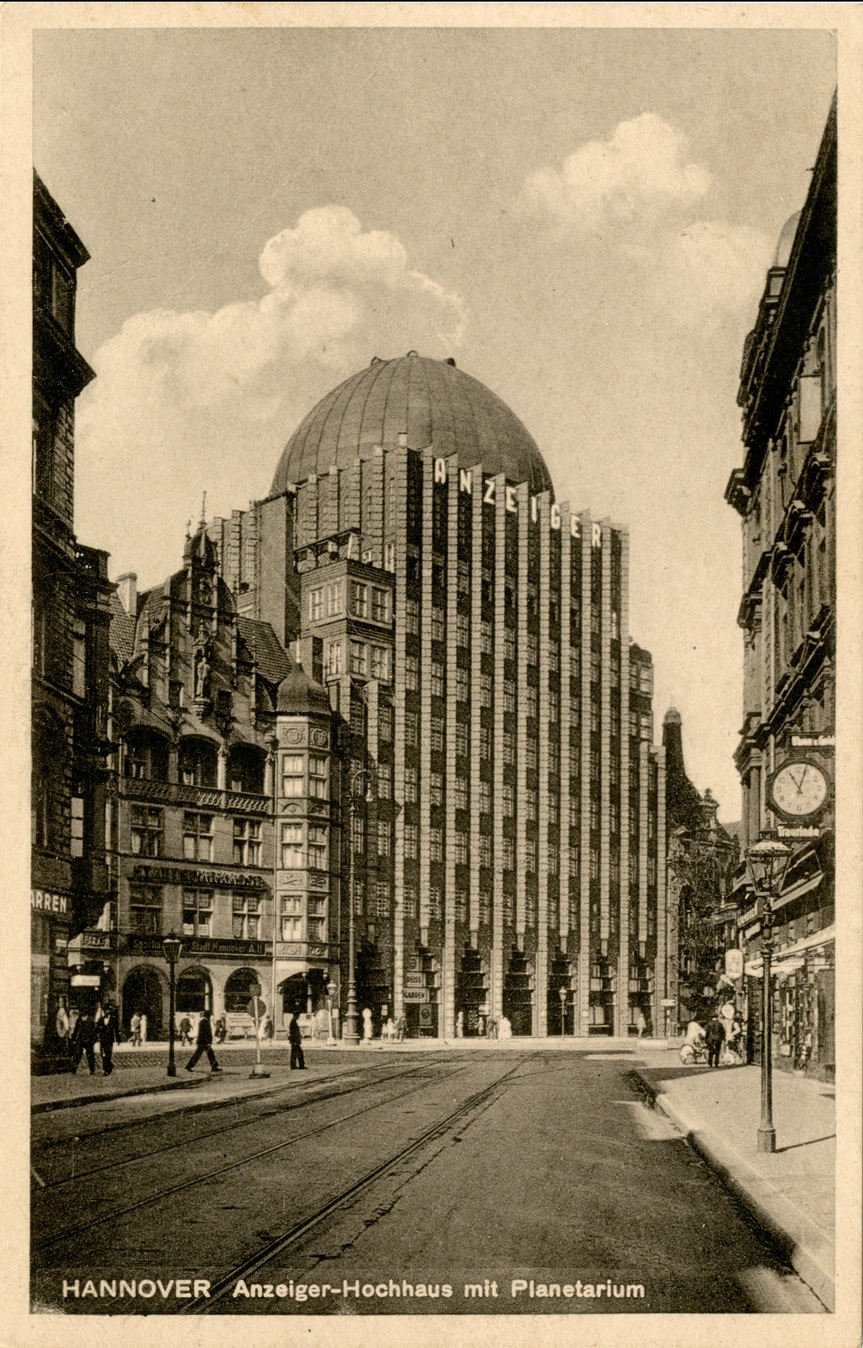
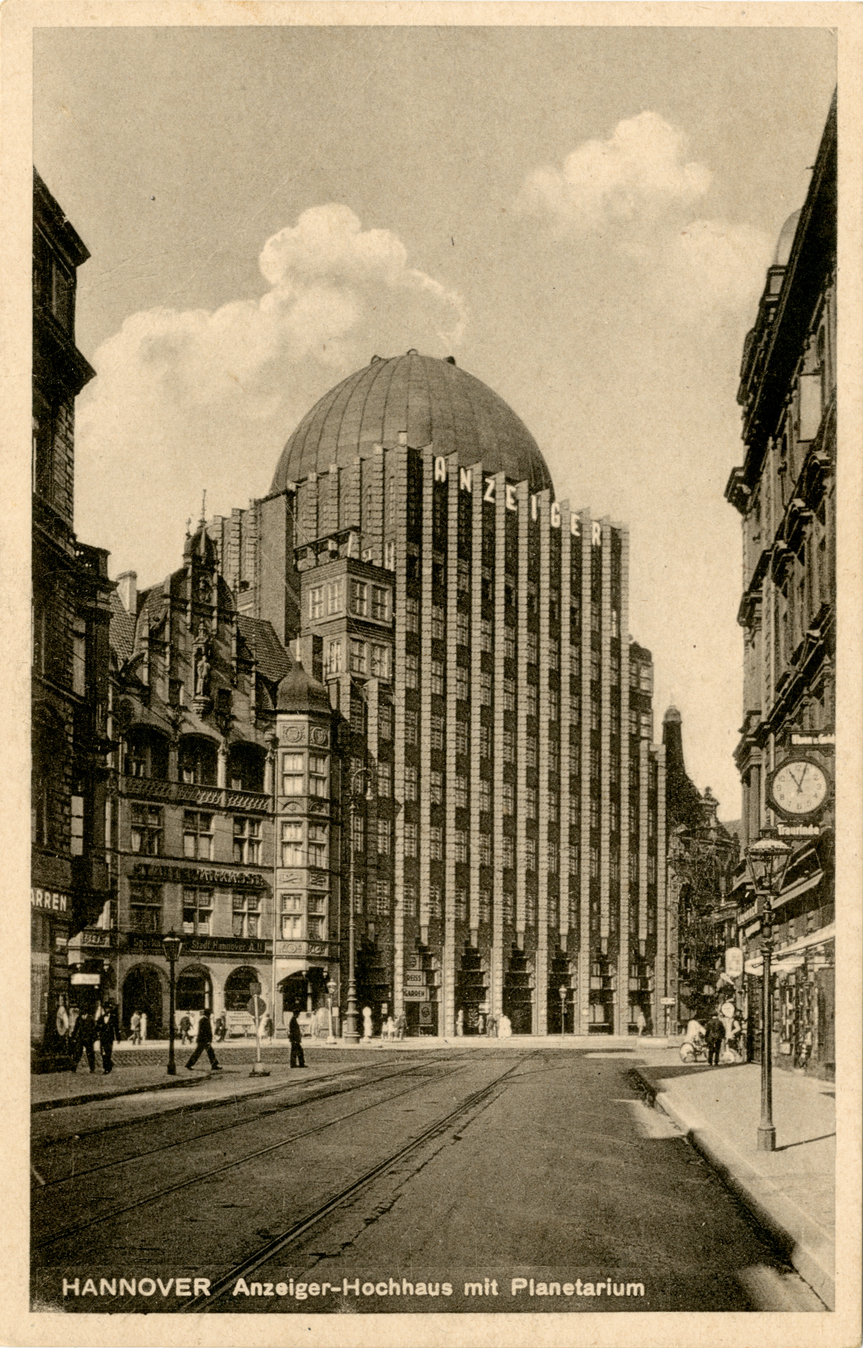
Fixed images

Changed region(s): [[0.0, 0.093, 0.9925, 1.0], [0.2171, 0.0, 0.9615, 0.031], [0.9925, 0.9922, 1.0, 1.0]]

diff --git a/README.md b/README.md
@@ -1,6 +1,30 @@
 Backsteinexpressionisus
 =======================
 
+# Fixing thin black borders
+
+Probably ScanTailor introduces metadata about crop boxes in the finished Tiff files, under uncertain circumstances these aren't integer, but fractions of pixels. When ImageMagick encounters those bounding boxes in renders the difference in a thin black black line of less then three pixels at the top and right of the image. Trying to set another backgound or fill color doesn't help.
+The only currently known workaround is to use `tiff2rgba` of `libtiff` to exract an uncompressed image without metadata und let ImageMagick work with that.
+
+## Dependencies
+
+```
+brew install libtiff
+```
+
+or
+
+```
+sudo port install tiff
+```
+
+## Batch conversion
+
+```
+find . -name '*.tif' -exec tiff2rgba {} {}-uc.tif \;
+find . -name '*-uc.tif' -exec convert {} -quality 95 {}.jpg \;
+```
+
 # Converting Images to JPEG with padding
 
 You need ImageMagick 7

diff --git a/content/post/anzeiger-hochhaus-2/index.md b/content/post/anzeiger-hochhaus-2/index.md
@@ -8,9 +8,10 @@ tags:
 - Fritz Höger
 - Foto
 - Postkarte
----
 resources:
 - src: "front.jpg"
   name: title
   params:
     iiif: front/info.json
+---
+Ja, die Karte ist schief gedruckt...

diff --git a/content/post/anzeiger-hochhaus-1/index.md b/content/post/anzeiger-hochhaus-1/index.md
@@ -8,9 +8,9 @@ tags:
 - Fritz Höger
 - Foto
 - Postkarte
----
 resources:
 - src: "front.jpg"
   name: title
   params:
     iiif: front/info.json
+---

diff --git a/content/post/anzeiger-hochhaus-3/index.md b/content/post/anzeiger-hochhaus-3/index.md
@@ -8,9 +8,9 @@ tags:
 - Fritz Höger
 - Foto
 - Postkarte
----
 resources:
 - src: "front.jpg"
   name: title
   params:
     iiif: front/info.json
+---

diff --git a/content/post/anzeiger-hochhaus-4/index.md b/content/post/anzeiger-hochhaus-4/index.md
@@ -8,9 +8,9 @@ tags:
 - Fritz Höger
 - Foto
 - Postkarte
----
 resources:
 - src: "front.jpg"
   name: title
   params:
     iiif: front/info.json
+---

diff --git a/content/post/anzeiger-hochhaus-5/index.md b/content/post/anzeiger-hochhaus-5/index.md
@@ -8,9 +8,9 @@ tags:
 - Fritz Höger
 - Foto
 - Postkarte
----
 resources:
 - src: "front.jpg"
   name: title
   params:
     iiif: front/info.json
+---

diff --git a/content/post/anzeiger-hochhaus-6/index.md b/content/post/anzeiger-hochhaus-6/index.md
@@ -8,9 +8,9 @@ tags:
 - Fritz Höger
 - Foto
 - Postkarte
----
 resources:
 - src: "front.jpg"
   name: title
   params:
     iiif: front/info.json
+---

diff --git a/content/post/spardose/index.md b/content/post/spardose/index.md
@@ -1,0 +1,4 @@
+---
+---
+
+Ausgeborgt aus dem  [Flohmarktfunde Blog](https://flohmarktfunde.projektemacher.org/post/spardose/)
